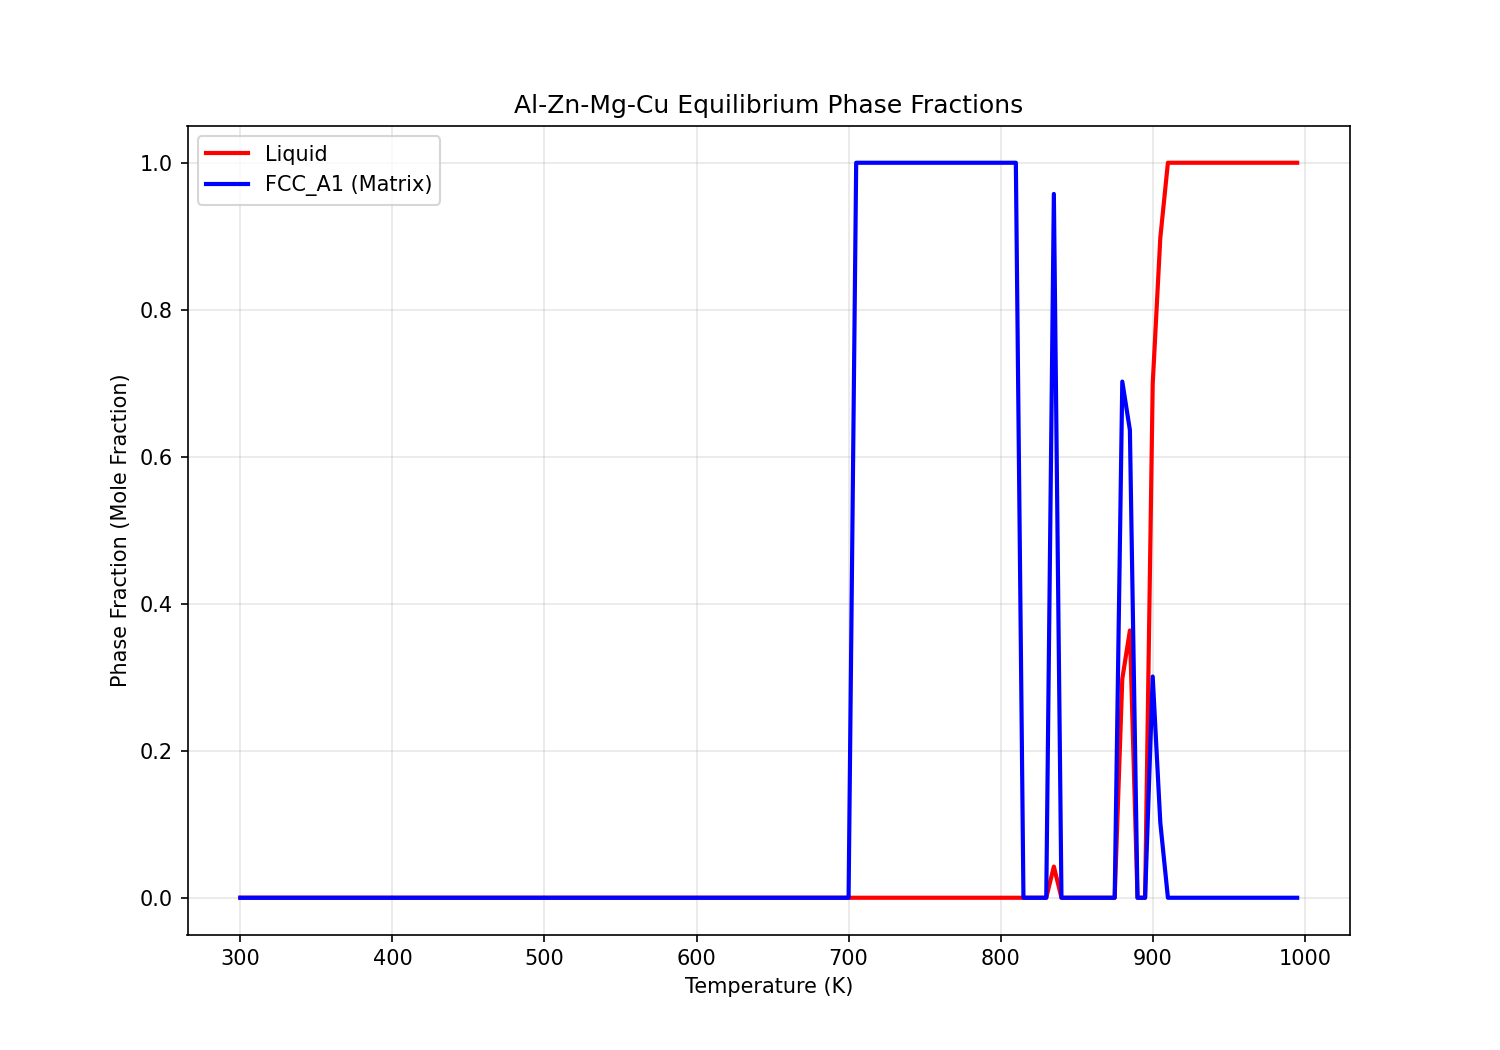
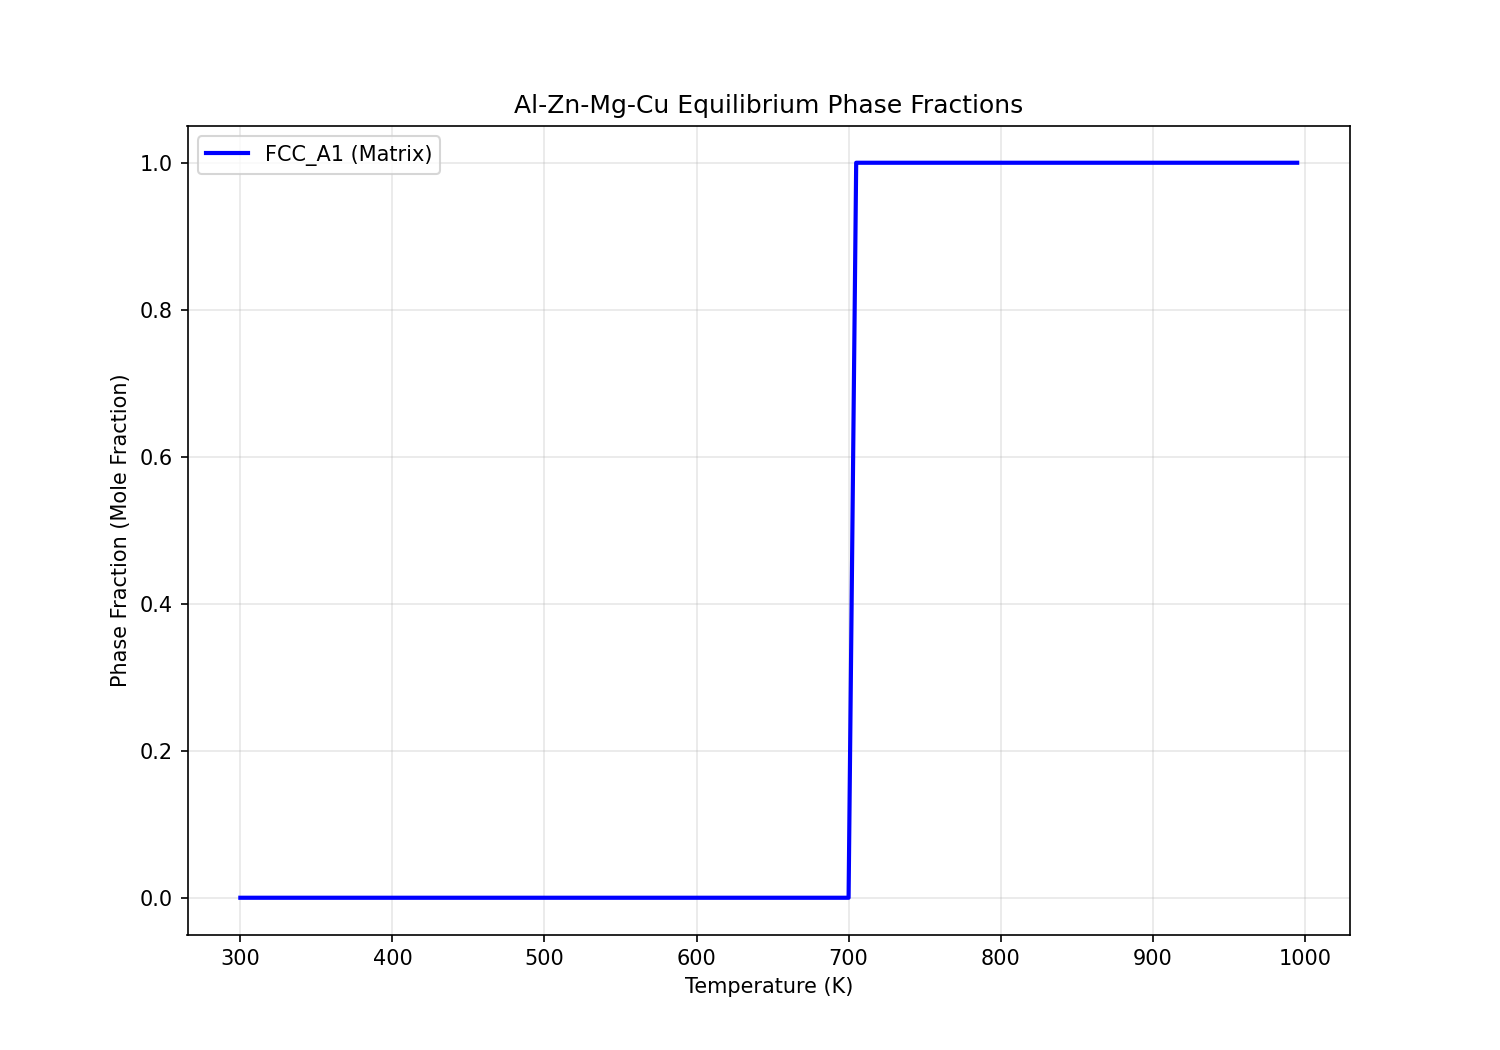
nothing seems to be workinng

diff --git a/attempt2/test_simple.py b/attempt2/test_simple.py
@@ -1,73 +1,64 @@
 from pycalphad import Database, equilibrium, variables as v
 import matplotlib.pyplot as plt
+import numpy as np
 
 # --- 1. CONFIGURATION ---
 db_file = 'COST507.tdb'
-input_comps = ['AL', 'ZN', 'MG', 'CU', 'VA'] 
+# Simplified: Removed CU (Copper) to stabilize the solver
+input_comps = ['AL', 'ZN', 'MG', 'VA'] 
 
-# Composition (Solutes only, AL is balance)
+# Composition: Al - 5.6% Zn - 2.5% Mg (Weight %)
 composition = {
     v.W('ZN'): 0.056, 
-    v.W('MG'): 0.025, 
-    v.W('CU'): 0.016
+    v.W('MG'): 0.025
 }
 
-# --- 2. LOAD & SIMPLIFY ---
-print("⚙  Loading database...")
+# --- 2. PHASE DISCOVERY ---
+db = Database(db_file)
+all_phases = sorted(list(db.phases.keys()))
+
+print("--- DATABASE PHASE LIST ---")
+# This will help you find the EXACT names (e.g., if it's LIQUID or LIQUID:L)
+for p in all_phases:
+    print(f"- {p}")
+print("---------------------------")
+
+# Define target phases based on standard Al-Zn-Mg ternary names
+# ADJUST THESE if the printout above shows different spelling!
+target_phases = ['LIQUID:L', 'FCC_A1', 'MGZN2', 'TAU', 'LAVES_C14']
+phases_to_calc = [p for p in target_phases if p in all_phases]
+
+print(f"ℹ  Calculating with: {phases_to_calc}")
+
+# --- 3. EQUILIBRIUM CALCULATION ---
 try:
-    db = Database(db_file)
-    phases_to_test = ['LIQUID', 'FCC_A1']
-    print(f"ℹ  Testing phases: {phases_to_test}")
+    conditions = composition.copy()
+    conditions.update({v.P: 101325, v.T: (300, 1000, 10), v.N: 1})
+    
+    eq_result = equilibrium(db, input_comps, phases_to_calc, conditions)
+    print("✅ Success!")
 except Exception as e:
-    print(f"❌ Error loading DB: {e}")
+    print(f"❌ Failed: {e}")
     exit()
 
-# --- 3. CALCULATE ---
-print("⏳ Calculating simplified equilibrium (Liquid + FCC)...")
-try:
-    # 1. Single Point Test
-    # FIX: Merge all conditions (Composition, P, T, N) into ONE dictionary
-    conditions_single = composition.copy()
-    conditions_single.update({v.P: 101325, v.T: 800, v.N: 1})
-    
-    eq_result_single = equilibrium(db, input_comps, phases_to_test, conditions_single)
-    print("✅ Single point calculation success!")
-    
-    # 2. Full Range Test
-    print("⏳ Now running full temperature range (300K - 1000K)...")
-    # FIX: Merge all conditions for the range calculation as well
-    conditions_range = composition.copy()
-    conditions_range.update({v.P: 101325, v.T: (300, 1000, 10), v.N: 1})
-    
-    eq_result = equilibrium(db, input_comps, phases_to_test, conditions_range)
-    print("✅ Full range calculation complete!")
-    
-except Exception as e:
-    print(f"❌ Calculation crashed: {e}")
-    exit()
-
-# --- 4. PLOT ---
-print("🖼  Saving plot...")
-plt.figure()
-
-# FIX: Access T directly from the xarray Dataset using .values
-# eq_result is an xarray.Dataset. The temperature coordinate is named 'T'.
+# --- 4. PLOTTING ---
+plt.figure(figsize=(10, 6))
 temps = eq_result.T.values
 
-for phase in phases_to_test:
-    if phase in eq_result.Phase:
-        # FIX: Remove .mean(dim='component'). NP (Net Phase Amount) is a scalar per phase.
-        # Use sum(dim='vertex') to combine miscibility gaps (e.g. if two FCC phases separate).
-        p_amount = eq_result.NP.where(eq_result.Phase == phase).sum(dim='vertex')
-        
-        # FIX: Squeeze to remove single-dimensional axes (like N, P) so it matches 'temps'
-        p_amount = p_amount.squeeze()
-        
-        plt.plot(temps, p_amount, label=phase)
+# This loop automatically handles miscibility gaps (like FCC_A1#1, FCC_A1#2)
+for phase_name in np.unique(eq_result.Phase.values):
+    if phase_name == '' or phase_name == 'VACUUM': continue
+    
+    # Summing 'vertex' handles cases where one phase splits into two
+    fraction = eq_result.NP.where(eq_result.Phase == phase_name).sum(dim='vertex').squeeze()
+    
+    if np.nanmax(fraction) > 0.001:
+        plt.plot(temps, fraction, label=phase_name, linewidth=2)
 
-plt.xlabel("Temperature (K)")
-plt.ylabel("Phase Fraction")
+plt.title('Ternary Al-Zn-Mg Equilibrium (Simplified Debug)')
+plt.xlabel('Temperature (K)')
+plt.ylabel('Phase Fraction')
 plt.legend()
-plt.title("Simple Al-7xxx (Liquid + Matrix Only)")
-plt.savefig("simple_test.png")
-print("💾 Saved 'simple_test.png'")
+plt.grid(True, alpha=0.3)
+plt.savefig("ternary_debug_plot.png")
+print("💾 Plot saved as 'ternary_debug_plot.png'")

diff --git a/attempt2/test.py b/attempt2/test.py
@@ -20,7 +20,7 @@ db = Database(db_file)
 # INSTEAD OF "all_phases", use this specific list for 7xxx alloys
 # These are the standard names in COST507 for this system
 target_phases = [
-    'LIQUID', 
+    'LIQUID:L', 
     'FCC_A1',       # The Aluminum Matrix
     'MGZN2',        # Eta (η) phase - The main strengthener
     'SPHASE',       # S phase (Al2CuMg)
@@ -57,8 +57,9 @@ plt.figure(figsize=(10, 7))
 temps = eq_result.T.values
 
 # Plot Liquid
-if 'LIQUID' in eq_result.Phase:
-    liq_frac = eq_result.NP.where(eq_result.Phase == 'LIQUID').sum(dim='vertex').squeeze()
+if 'LIQUID:L' in eq_result.Phase:
+    # Use 'LIQUID:L' here too
+    liq_frac = eq_result.NP.where(eq_result.Phase == 'LIQUID:L').sum(dim='vertex').squeeze()
     if np.nanmax(liq_frac) > 0.001:
         plt.plot(temps, liq_frac, label='Liquid', color='red', linewidth=2)
 
